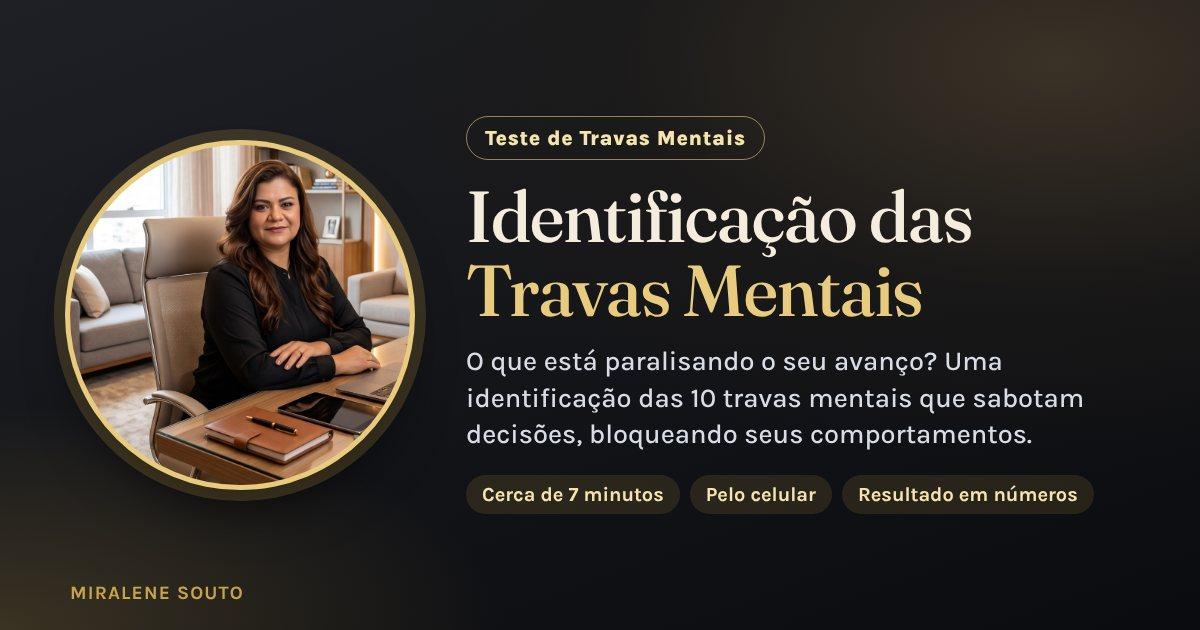
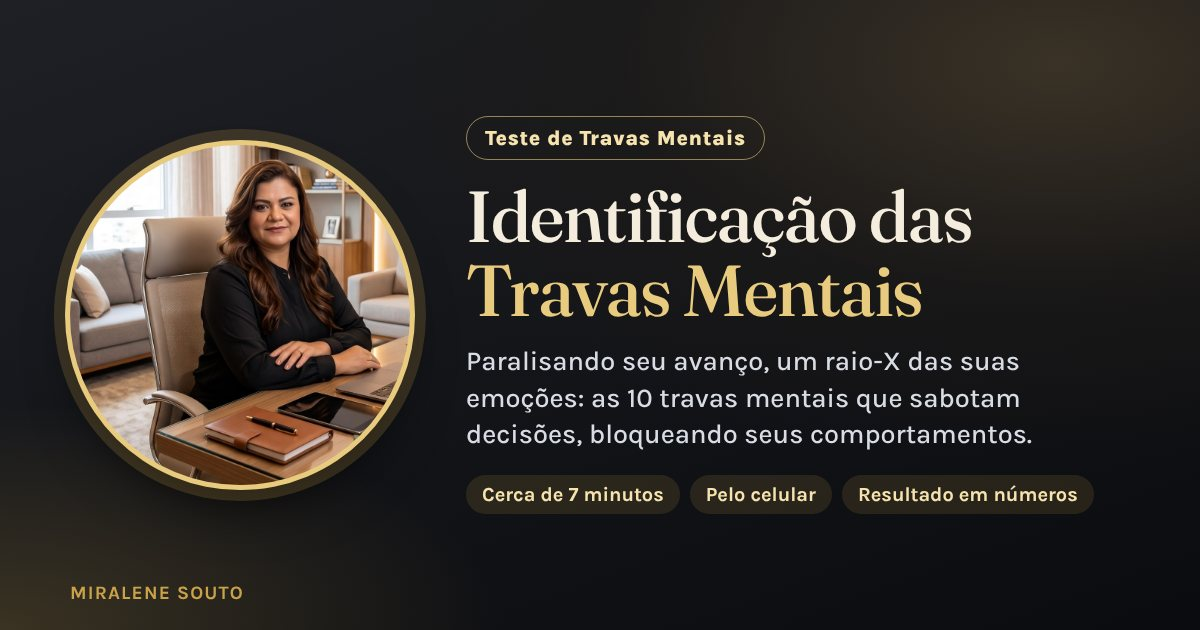
Miralene: Travas com o texto exato pedido (Paralisando seu avanço, um raio-X das suas emoções)
Claude-Session: https://claude.ai/code/session_01ABYTM9ydTnwZVq9ybeF7Jv

Changed region(s): [[0.37, 0.5429, 0.8942, 0.6635]]

diff --git a/miralene/teste-de-travas/index.html b/miralene/teste-de-travas/index.html
@@ -3,12 +3,12 @@
 <html lang="pt-BR"><head><meta charset="utf-8">
 <meta name="viewport" content="width=device-width,initial-scale=1">
 <title>Identificação das Travas Mentais · Miralene Souto</title>
-<meta name="description" content="O que está paralisando o seu avanço? Uma identificação das 10 travas mentais que sabotam decisões, bloqueando seus comportamentos e impedindo você de ocupar o seu lugar de direito.">
+<meta name="description" content="Paralisando seu avanço, um raio-X das suas emoções: as 10 travas mentais que sabotam decisões, bloqueando seus comportamentos e impedindo você de ocupar o seu lugar de direito.">
 <meta name="robots" content="noindex">
 <meta property="og:type" content="website">
 <meta property="og:site_name" content="Ressignificar Terapias &amp; Consultorias">
 <meta property="og:title" content="Identificação das Travas Mentais · Miralene Souto">
-<meta property="og:description" content="O que está paralisando o seu avanço? Uma identificação das 10 travas mentais que sabotam decisões, bloqueando seus comportamentos e impedindo você de ocupar o seu lugar de direito.">
+<meta property="og:description" content="Paralisando seu avanço, um raio-X das suas emoções: as 10 travas mentais que sabotam decisões, bloqueando seus comportamentos e impedindo você de ocupar o seu lugar de direito.">
 <meta property="og:image" content="https://ressignificarterapiaseconsultorias.com/miralene/teste-de-travas/og.jpg">
 <meta property="og:image:width" content="1200"><meta property="og:image:height" content="630">
 <meta property="og:image:alt" content="Identificação das Travas Mentais · Miralene Souto">
